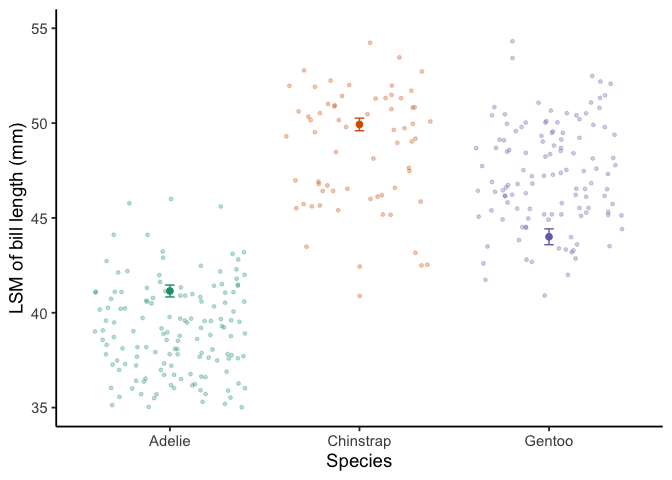
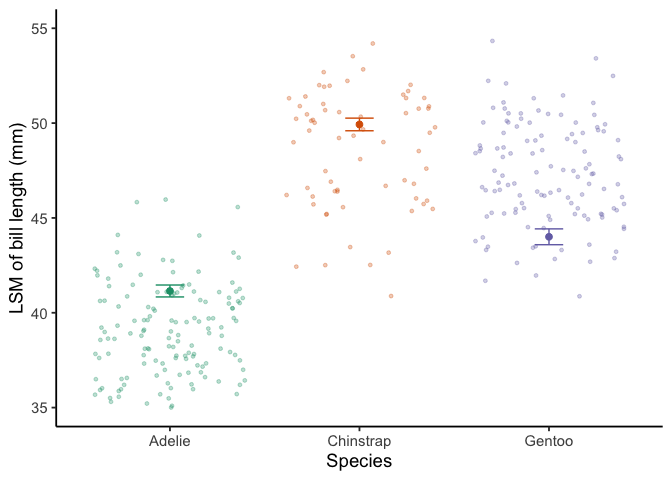
formatting in intro to ggplot

diff --git a/Intro-to-ggplot.md b/Intro-to-ggplot.md
@@ -68,7 +68,9 @@ ggplot(peng_data, aes(x = bill_length_mm)) +
 
     ## Warning: Removed 2 rows containing non-finite values (stat_bin).
 
-![](README_figs/Intro_ggplot/README-unnamed-chunk-4-1.png) Perhaps we don't like our bin size, we can easily change it with the following code. Binwidth here is based on your data and is up to you to choose. Here we specifify bins for every 0.5 mm.
+![](README_figs/Intro_ggplot/README-unnamed-chunk-4-1.png)
+
+Perhaps we don't like our bin size, we can easily change it with the following code. Binwidth here is based on your data and is up to you to choose. Here we specifify bins for every 0.5 mm.
 
 ``` r
 ggplot(peng_data, aes(x = bill_length_mm)) +
@@ -88,7 +90,9 @@ ggplot(peng_data, aes(x = bill_length_mm)) +
 
     ## Warning: Removed 2 rows containing non-finite values (stat_density).
 
-![](README_figs/Intro_ggplot/README-unnamed-chunk-6-1.png) If we look at our histogram and our density plots, it looks like our data might be multimodal. Perhaps it's time to consider our categorical variable. To do this we can create boxplots that give you a sense of the data you are working with. Here it makes sense to look at petal lenght as a function of one of our categorical variables, species.
+![](README_figs/Intro_ggplot/README-unnamed-chunk-6-1.png)
+
+If we look at our histogram and our density plots, it looks like our data might be multimodal. Perhaps it's time to consider our categorical variable. To do this we can create boxplots that give you a sense of the data you are working with. Here it makes sense to look at petal lenght as a function of one of our categorical variables, species.
 
 ``` r
 ggplot(peng_data, aes(x = species , y =bill_length_mm)) +
@@ -97,7 +101,9 @@ ggplot(peng_data, aes(x = species , y =bill_length_mm)) +
 
     ## Warning: Removed 2 rows containing non-finite values (stat_boxplot).
 
-![](README_figs/Intro_ggplot/README-unnamed-chunk-7-1.png) Indeed, it looks like we have different distributions for our species.
+![](README_figs/Intro_ggplot/README-unnamed-chunk-7-1.png)
+
+Indeed, it looks like we have different distributions for our species.
 
 Okay, now that we have a good sense of the distribution of our data, let's think more about our modeling appraoch. Let's say for the sake of this exercise, we think that penguins with longer beaks will also have longer flippers.
 
@@ -350,7 +356,7 @@ Something that is becoming increasingly popular with some journals is to show su
 ggplot(peng_ls_df, aes(x = species, y = emmean, colour = species)) +
   geom_point(size = 2) + 
   geom_point(aes(x= species, y = bill_length_mm), peng_data, alpha = 0.3, size =1, position = "jitter") +
-  geom_errorbar(aes(ymin =emmean - SE, ymax = emmean + SE), peng_ls_df, width = 0.05) +
+  geom_errorbar(aes(ymin =emmean - SE, ymax = emmean + SE), peng_ls_df, width = 0.15) +
   labs(x = "Species", y = "LSM of bill length (mm)") +
   ylim(35,55) +
   scale_color_brewer(palette = "Dark2") +
@@ -358,7 +364,7 @@ ggplot(peng_ls_df, aes(x = species, y = emmean, colour = species)) +
   theme_classic(base_size = 14)
 ```
 
-    ## Warning: Removed 16 rows containing missing values (geom_point).
+    ## Warning: Removed 17 rows containing missing values (geom_point).
 
 ![](README_figs/Intro_ggplot/README-unnamed-chunk-22-1.png)
 
@@ -368,7 +374,7 @@ Many journals will charge extra to print in color. There are a couple of ways of
 ggplot(peng_ls_df, aes(x = species, y = emmean)) +
   geom_point(size = 2) + 
   geom_point(aes(x= species, y = bill_length_mm), peng_data, alpha = 0.3, size =1, position = "jitter") +
-  geom_errorbar(aes(ymin =emmean - SE, ymax = emmean + SE), peng_ls_df, width = 0.05) +
+  geom_errorbar(aes(ymin =emmean - SE, ymax = emmean + SE), peng_ls_df, width = 0.15) +
   labs(x = "Species", y = "LSM of bill length (mm)") +
   ylim(35,55) +
   guides(colour=FALSE) + 
@@ -383,7 +389,7 @@ The best way to get around this is by changing the `scale_color_brewer` to `scal
 ggplot(peng_ls_df, aes(x = species, y = emmean, colour = species)) +
   geom_point(size = 2) + 
   geom_point(aes(x= species, y = bill_length_mm), peng_data, alpha = 0.3, size =1, position = "jitter") +
-  geom_errorbar(aes(ymin =emmean - SE, ymax = emmean + SE), peng_ls_df, width = 0.05) +
+  geom_errorbar(aes(ymin =emmean - SE, ymax = emmean + SE), peng_ls_df, width = 0.15) +
   labs(x = "Species", y = "LSM of bill length (mm)") +
   ylim(35,55) +
   scale_color_grey(start=.5, end=0.2) + # see change here
@@ -391,7 +397,7 @@ ggplot(peng_ls_df, aes(x = species, y = emmean, colour = species)) +
   theme_classic(base_size = 14)
 ```
 
-    ## Warning: Removed 16 rows containing missing values (geom_point).
+    ## Warning: Removed 17 rows containing missing values (geom_point).
 
 ![](README_figs/Intro_ggplot/README-unnamed-chunk-24-1.png)
 
@@ -403,7 +409,7 @@ Let's say you didn't like the names of the x-axis labels. You could change them 
 ggplot(peng_ls_df, aes(x = species, y = emmean, colour = species)) +
   geom_point(size = 2) + 
   geom_point(aes(x= species, y = bill_length_mm), peng_data, alpha = 0.3, size =1, position = "jitter") +
-  geom_errorbar(aes(ymin =emmean - SE, ymax = emmean + SE), peng_ls_df, width = 0.05) +
+  geom_errorbar(aes(ymin =emmean - SE, ymax = emmean + SE), peng_ls_df, width = 0.15) +
   labs(x = "Species", y = "LSM of bill length (mm)") +
   ylim(35,55) +
   scale_colour_brewer(palette = "Dark2") +
@@ -413,7 +419,7 @@ ggplot(peng_ls_df, aes(x = species, y = emmean, colour = species)) +
   theme_classic(base_size = 14)
 ```
 
-    ## Warning: Removed 16 rows containing missing values (geom_point).
+    ## Warning: Removed 18 rows containing missing values (geom_point).
 
 ![](README_figs/Intro_ggplot/README-unnamed-chunk-25-1.png)
 
